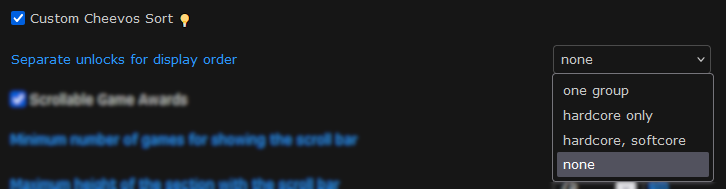
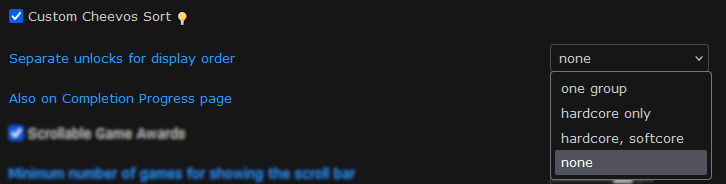
CustomizeProfile/CustomCheevosSort: allow to add the sort button on "Completion Progress" page + doc updated

diff --git a/RA_CustomizeProfile.user.js b/RA_CustomizeProfile.user.js
@@ -1,13 +1,13 @@
 // ==UserScript==
 // @name         RA_CustomizeProfile
 // @namespace    RA
-// @version      1.5
+// @version      1.6
 // @description  Provides a set of options to customize the profile pages
 // @author       Mindhral
 // @homepage     https://github.com/Mindhral/RA_userscripts
 // @match        https://retroachievements.org/user/*
 // @match        https://retroachievements.org/settings*
-// @exclude      https://retroachievements.org/user/*/*
+// @exclude     /https:\/\/retroachievements.org\/user\/.*\/(game\/|tickets|posts|developer).*/
 // @run-at       document-start
 // @icon         https://static.retroachievements.org/assets/images/favicon.webp
 // @grant        GM_setValue
@@ -129,6 +129,10 @@ const settingsHtml = `<div class="text-card-foreground rounded-lg border border-
     </tr>
     <tr><th colspan="2"><label><input id="customCheevosSortActive" type="checkbox"> Custom Cheevos Sort <span class="icon" title="Needs to store your API Key in the script local storage" style="cursor: help;">💡</span></label></th></tr>
     <tr><td>Separate unlocks for display order</td><td><select id="cheevosSortGrouping" /></td></tr>
+    <tr>
+      <td><label for="cheevosSortCompletionPage">Also on Completion Progress page</label></td>
+      <td><input id="cheevosSortCompletionPage" type="checkbox"></td>
+    </tr>
     <tr><th colspan="2"><label><input id="scrollAwardsActive" type="checkbox"> Scrollable Game Awards</label></th></tr>
     <tr><td>Minimum number of games for showing the scroll bar</td><td><input id="scrollAwardsMinGames" type="number" style="width: 7em;"></td></tr>
     <tr><td>Maximum height of the section with the scroll bar</td><td><input id="scrollAwardsMaxHeight" type="number" min="10" style="width: 7em;"><span title="em: font-size of the element" style="cursor: help;"> em</span></td></tr>
@@ -565,7 +569,8 @@ const CustomCheevosSort = (() => {
 
     const DefaultSettings = {
         active: false,
-        sortGroup: 'none'
+        sortGroup: 'none',
+        completionPage: true
     };
 
     const Settings = loadSettings('customCheevosSort', DefaultSettings);
@@ -584,16 +589,23 @@ const CustomCheevosSort = (() => {
             option.setAttribute('name', sortName);
         }
         groupSelect.namedItem(Settings.sortGroup).selected = true;
+        const completionPageCheckbox = document.getElementById('cheevosSortCompletionPage');
+        completionPageCheckbox.checked = Settings.completionPage;
 
         activeCheckbox.addEventListener('change', () => {
             Settings.active = activeCheckbox.checked;
             setRowVisibility(groupSelect, Settings.active);
+            setRowVisibility(completionPageCheckbox, Settings.active);
             saveSettings();
             APIKey.neededFor('customCheevosSort', Settings.active);
         });
         activeCheckbox.dispatchEvent(new Event('change'));
         groupSelect.addEventListener('change', () => {
             Settings.sortGroup = groupSelect.selectedOptions[0].value;
+            saveSettings();
+        });
+        completionPageCheckbox.addEventListener('change', () => {
+            Settings.completionPage = completionPageCheckbox.checked;
             saveSettings();
         });
     }
@@ -620,7 +632,7 @@ const CustomCheevosSort = (() => {
             const switchSort = () => {
                 if (!cheevosList) {
                     withGameExtended(gameId, data => {
-                        cheevosList = [...container.children].map((span, index) => {
+                        cheevosList = [...container.querySelectorAll('span')].map((span, index) => {
                             const cheevosId = span.querySelector('a').href.split('/').at(-1);
                             const img = span.querySelector('img');
                             const unlocked = !img.src.endsWith('_lock.png');
@@ -634,13 +646,19 @@ const CustomCheevosSort = (() => {
                 isOriginalSort = !isOriginalSort;
                 const compare = isOriginalSort ? originalCompare : customCompare;
                 cheevosList.sort(compare);
-                cheevosList.map(r => r.element).forEach(e => container.append(e));
+                cheevosList.map(r => r.element).forEach(e => e.parentElement.append(e));
             };
             sortBtn.addEventListener('click', switchSort);
         });
     }
 
-    return { profilePage, settingsPage };
+    function completionPage() {
+        if (!Settings.completionPage) return;
+
+        profilePage();
+    }
+
+    return { profilePage, settingsPage, completionPage };
 })();
 
 function profilePage() {
@@ -650,6 +668,10 @@ function profilePage() {
     HighlightAwards.profilePage();
     LinkProgress2Compare.profilePage();
     CustomCheevosSort.profilePage();
+}
+
+function completionPage() {
+    CustomCheevosSort.completionPage();
 }
 
 function settingsPage() {
@@ -674,5 +696,5 @@ function settingsPage() {
 }
 
 const urlPathname = window.location.pathname;
-const mainMethod = urlPathname.startsWith('/settings') ? settingsPage : profilePage;
+const mainMethod = urlPathname.startsWith('/settings') ? settingsPage : urlPathname.endsWith('/progress') ? completionPage : profilePage;
 document.addEventListener("DOMContentLoaded", mainMethod);

diff --git a/README.md b/README.md
@@ -43,11 +43,11 @@ Both can be deactivated in the Settings with two different options.
 
 ### Custom Cheevos Sort
 
-Adds a button above the achievements list of each game in *Last X Games Played* section to switch the sorting of these achievements.
+Adds a button above the achievements list of each game in *Last X Games Played* section (and optionally on *Completion Progress* page) to switch the sorting of these achievements.
 
 ![custom cheevos sort - original order](/assets/CustomizeProfile_cheeevosSort_original.png)
 
-The new sorting can be parameterized in the Settings page.
+The new sorting can be parameterized in the Settings page, as well as whether or not the button should also be added on *Completion Progress* page.
 
 ![custom cheevos sort - settings](/assets/CustomizeProfile_cheeevosSort_settings.png)
 
@@ -59,7 +59,7 @@ The only sorting currently possible is to use the "natural" order as defined by 
 
 ![custom cheevos sort - display order](/assets/CustomizeProfile_cheeevosSort_displayOrder.png)
 
-The only option is to choose whether or not to separate the unlocked achievements and how. The available values are exactly the same as for the *unlock grouping* feature from [Enhanced Sort Options](#enhanced-sort-options) (except for the *Last* checkbox, absent here).
+The only sorting option is to choose whether or not to separate the unlocked achievements and how. The available values are exactly the same as for the *unlock grouping* feature from [Enhanced Sort Options](#enhanced-sort-options) (except for the *Last* checkbox, absent here).
 
 ### Scrollable Game Awards
 
